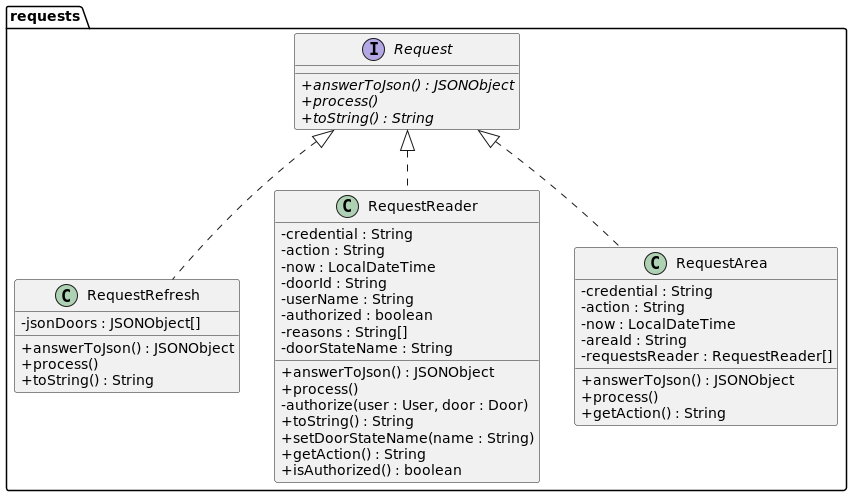
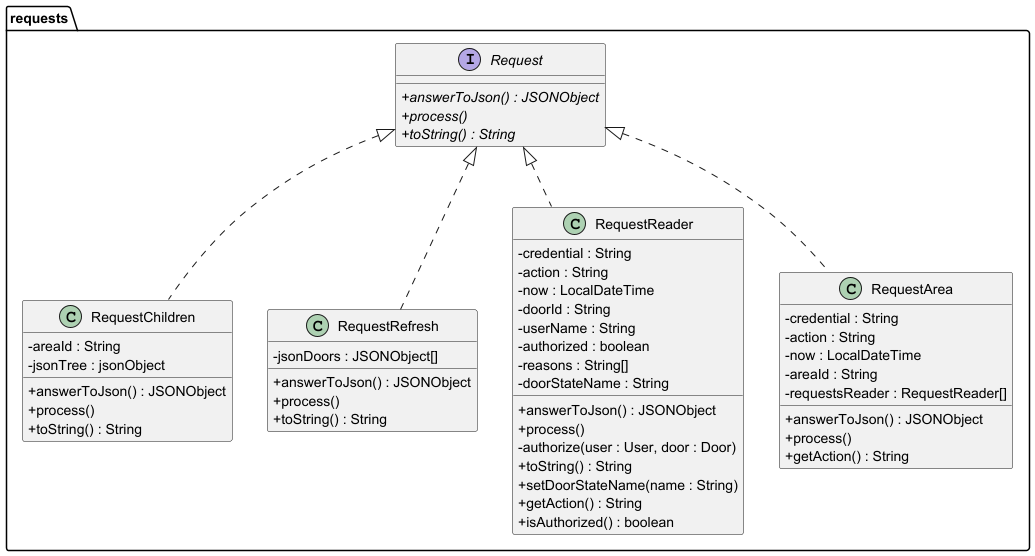
3.2 milestone3

Changed region(s): [[0.0, 0.0, 1.0, 0.998]]

diff --git a/src/baseNoStates/milestone1/Partition.java b/src/baseNoStates/milestone1/Partition.java
@@ -6,7 +6,7 @@ import org.json.JSONObject;
 import org.slf4j.Logger;
 import org.slf4j.LoggerFactory;
 
-import java.util.ArrayList; // <--- NECESARIO IMPORTAR ESTO
+import java.util.ArrayList;
 import java.util.List;
 
 // Child of Area. The Partitions might include Spaces or other Partitions.
@@ -14,21 +14,11 @@ public class Partition extends Area {
 
   private static final Logger logger = LoggerFactory.getLogger(Partition.class);
 
-  // 1. AQUI DECLARAMOS LA LISTA QUE FALTABA
   private List<Area> areas;
 
-  // 2. MODIFICAMOS EL CONSTRUCTOR
-  // Una partición se construye con una lista de Áreas hijas, no de puertas directas.
   public Partition(String id, List<Area> areas) {
-    // Al padre (Area) le pasamos una lista vacía de puertas,
-    // porque las puertas pertenecen a los Espacios, no a las Particiones.
     super(id, new ArrayList<>());
     this.areas = areas;
-  }
-
-  // (Opcional) Getter por si lo necesitas fuera
-  public List<Area> getAreas() {
-    return areas;
   }
 
   /**
@@ -39,12 +29,11 @@ public class Partition extends Area {
   public List<Door> getDoorsGivingAccess() {
     logger.info("Computing doors giving access to area {}", id);
 
-    // Nota: 'doors' viene heredado de la clase padre 'Area'
     doors.clear();
 
     List<Door> allDoors = DirectoryDoors.getInstance().getAllDoors();
 
-    if (id.equals("building")) { // O "ROOT"
+    if (id.equals("building")) { // "ROOT"
       logger.debug("Area '{}' is building: returning all doors ({})",
           id, allDoors.size());
       doors.addAll(allDoors);
@@ -52,7 +41,6 @@ public class Partition extends Area {
     }
 
     for (Door door : allDoors) {
-      // getPartition() debe devolver el ID de la partición a la que pertenece la puerta
       if (id.equals(door.getPartition())) {
         doors.add(door);
         logger.debug("Door {} provides access to area {}", door.getId(), id);
@@ -74,15 +62,7 @@ public class Partition extends Area {
     visitor.visitPartition(this);
   }
 
-  @Override
-  public boolean isUnlocked() {
-    for (Area a : this.areas) {
-      if (!a.isUnlocked()) {
-        return false;
-      }
-    }
-    return true;
-  }
+
 
   /**
    * JSON representation used by RequestChildren.
@@ -105,6 +85,21 @@ public class Partition extends Area {
       json.put("areas", jsonAreas);
     }
     return json;
+  }
+
+  /**
+   * Next two methods are implemented just
+   * for the flutter app. Returns if a Partition is
+   * all locked or unlocked.
+   */
+  @Override
+  public boolean isUnlocked() {
+    for (Area a : this.areas) {
+      if (!a.isUnlocked()) {
+        return false;
+      }
+    }
+    return true;
   }
 
   @Override

diff --git a/src/baseNoStates/milestone1/Space.java b/src/baseNoStates/milestone1/Space.java
@@ -39,12 +39,12 @@ public class Space extends Area {
     }
     return doors;
   }
+
   /**
    * Accepts a visitor that performs an operation on this Space instance.
    * Spaces do not delegate further traversal since they represent leaf nodes
    * in the building hierarchy.
    */
-
   @Override
   public void accept(AreaVisitor visitor) {
     visitor.visitSpace(this);
@@ -68,6 +68,11 @@ public class Space extends Area {
     return json;
   }
 
+  /**
+   * Next two methods are implemented just
+   * for the flutter app. Returns if an Area is
+   * all locked or unlocked.
+   */
   @Override
   public boolean isLocked() {
     for (Door d : getDoorsGivingAccess()) {

diff --git a/src/baseNoStates/milestone1/DirectoryAreas.java b/src/baseNoStates/milestone1/DirectoryAreas.java
@@ -139,8 +139,4 @@ public final class DirectoryAreas {
       return visitor.getResult();
     }
   }
-
-  public List<Area> getAllAreas() {
-    return allAreas;
-  }
 }
